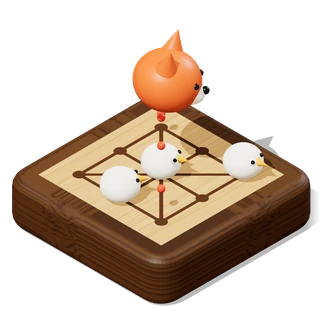
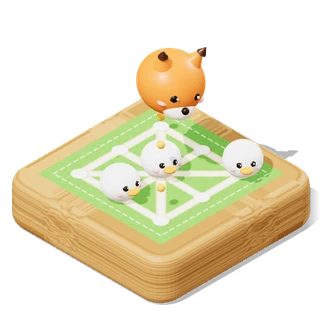
狐とガチョウ：大百科のアイコンを牧場の盤と可愛い駒のモチーフに
Claude-Session: https://claude.ai/code/session_01EiWRAZQof2qofnKntpRWhP

diff --git a/atlas/icons3d.js b/atlas/icons3d.js
@@ -468,29 +468,38 @@
       g.add(at(cnt(dark, 1.4), p(2) - .45, 2.05, p(1) - .35, .3, 0, -.3));   // coming down on the empty square right of the white one
       return g;
     },
-    foxgeese() {   // the middle of the oak cross board (the 3D default): lines and diagonals through nine points; a big fox leaping over a goose, two more geese waiting
-      const top = M({ map: X.canvasTex('icfg1', 512, 512, (c, W) => {
-        c.fillStyle = '#c2925a'; c.fillRect(0, 0, W, W);
-        let sd = 7; const r = () => (sd = (sd * 16807) % 2147483647) / 2147483647;
-        for (let k = 0; k < 90; k++) { c.strokeStyle = `rgba(${r() < .5 ? '120,78,38' : '226,190,140'},${.1 + r() * .16})`; c.lineWidth = 1 + r() * 3; const y = r() * W; c.beginPath(); c.moveTo(0, y); c.bezierCurveTo(W * .3, y + (r() - .5) * 26, W * .7, y + (r() - .5) * 26, W, y + (r() - .5) * 14); c.stroke(); }   // grain
-        const a = W / 6, b = W / 2, d = W - a; c.strokeStyle = '#4a2c12'; c.lineWidth = 12; c.lineCap = 'round';
-        for (const v of [a, b, d]) { c.beginPath(); c.moveTo(v, a); c.lineTo(v, d); c.stroke(); c.beginPath(); c.moveTo(a, v); c.lineTo(d, v); c.stroke(); }
-        c.beginPath(); c.moveTo(a, a); c.lineTo(d, d); c.moveTo(d, a); c.lineTo(a, d); c.stroke();
-        c.fillStyle = '#4a2c12'; for (const x of [a, b, d]) for (const y of [a, b, d]) { c.beginPath(); c.arc(x, y, 20, 0, 7); c.fill(); }
-      }), roughness: .55 });
-      const g = boardChunk(3, 3.6, top, M({ map: X.wood('icfgw', '#5a3a1c', '#3a2410') }));
+    foxgeese() {   // (2026-11-19: the meadow board and the cute pieces, the 2D / 3D defaults) the middle of the cross: a sunny grass board with cream paths and white stones, a round fox leaping over a round goose, two more geese waiting
+      const top = M({ map: X.canvasTex('icfg2', 512, 512, (c, W) => {
+        c.fillStyle = '#5fae3a'; c.fillRect(0, 0, W, W);
+        let sd = 11; const r = () => (sd = (sd * 16807) % 2147483647) / 2147483647;
+        for (let k = 0; k < 900; k++) { c.fillStyle = r() < .5 ? 'rgba(56,120,32,.4)' : 'rgba(170,220,110,.4)'; c.fillRect(r() * W, r() * W, 2, 5 + r() * 4); }
+        const a = W / 6, b = W / 2, d = W - a; c.lineCap = 'round';
+        const path = (x0, y0, x1, y1) => { for (const [w, col] of [[30, '#e9cf9a'], [20, '#fbf0d6']]) { c.strokeStyle = col; c.lineWidth = w; c.beginPath(); c.moveTo(x0, y0); c.lineTo(x1, y1); c.stroke(); } };
+        for (const v of [a, b, d]) { path(v, a, v, d); path(a, v, d, v); }
+        path(a, a, d, d); path(d, a, a, d);
+        c.setLineDash([16, 12]); c.strokeStyle = 'rgba(255,255,255,.75)'; c.lineWidth = 4; c.strokeRect(a * .38, a * .38, W - a * .76, W - a * .76); c.setLineDash([]);
+        for (const x of [a, b, d]) for (const y of [a, b, d]) { c.fillStyle = 'rgba(120,90,40,.25)'; c.beginPath(); c.arc(x + 2, y + 4, 26, 0, 7); c.fill(); c.fillStyle = '#ffffff'; c.beginPath(); c.arc(x, y, 24, 0, 7); c.fill(); }
+      }), roughness: .75 });
+      const g = boardChunk(3, 3.6, top, M({ map: X.wood('icfgw2', '#d6a466', '#9c6a32') }));
       const S = 3.1 / 3, p = i => -1.55 + S * (i + .5);
-      const goose = sc => { const o = new T.Group(), m = C(0xf6f1e4, { roughness: .5 }), body = ball(.46, m, .86); body.position.y = .38; o.add(body);
-        const bill = mesh(new T.ConeGeometry(.12, .3, 16), C(0xf09a24, { roughness: .4 })); bill.rotation.x = Math.PI / 2; bill.position.set(0, .5, .5); o.add(bill);
-        for (const sx of [-1, 1]) { const e = ball(.045, C(0x14110e, { roughness: .3 })); e.position.set(sx * .17, .58, .37); o.add(e); }
+      const ink = C(0x2a1a12, { roughness: .3 }), cheek = C(0xf7a8b0, { roughness: .6 });
+      const face = (o, y, z, w) => {   // two shiny eyes and pink cheeks on a round head
+        for (const sx of [-1, 1]) { const e = ball(.07, ink); e.position.set(sx * w, y, z); o.add(e); const hl = ball(.022, C(0xffffff, { roughness: .2 })); hl.position.set(sx * w + .02, y + .03, z + .06); o.add(hl);
+          const ck = ball(.08, cheek, .45); ck.position.set(sx * (w + .13), y - .12, z - .05); o.add(ck); } };
+      const goose = sc => { const o = new T.Group(), m = C(0xffffff, { roughness: .35 }), body = ball(.46, m, .92); body.position.y = .42; o.add(body);
+        face(o, .52, .38, .15);
+        const bill = ball(.13, C(0xf5a02a, { roughness: .35 }), .55); bill.position.set(0, .42, .47); bill.scale.set(1.2, .55, 1); o.add(bill);
         o.scale.setScalar(sc); return o; };
-      const fox = sc => { const o = new T.Group(), m = C(0xd9602c, { roughness: .45 }), body = ball(.5, m, .9); body.position.y = .42; o.add(body);
-        for (const sx of [-1, 1]) { const e = mesh(new T.ConeGeometry(.17, .36, 18), m); e.position.set(sx * .28, .92, -.04); e.rotation.z = -sx * .25; o.add(e); const e2 = ball(.05, C(0x14110e, { roughness: .3 })); e2.position.set(sx * .19, .56, .42); o.add(e2); }
-        const muz = ball(.22, C(0xfbf3e6, { roughness: .5 }), .8); muz.position.set(0, .34, .36); o.add(muz); const nose = ball(.06, C(0x14110e, { roughness: .3 })); nose.position.set(0, .42, .56); o.add(nose);
+      const fox = sc => { const o = new T.Group(), m = C(0xee7f2e, { roughness: .4 }), body = ball(.5, m, .9); body.position.y = .45; o.add(body);
+        for (const sx of [-1, 1]) { const e = mesh(new T.ConeGeometry(.17, .34, 18), m); e.position.set(sx * .27, .92, -.02); e.rotation.z = -sx * .28; o.add(e);
+          const tip = mesh(new T.ConeGeometry(.075, .13, 14), C(0x4a2a18, { roughness: .5 })); tip.position.set(sx * .335, 1.05, -.02); tip.rotation.z = -sx * .28; o.add(tip); }
+        const muz = ball(.26, C(0xfff6ea, { roughness: .45 }), .72); muz.position.set(0, .32, .32); o.add(muz);
+        face(o, .56, .4, .17);
+        const nose = ball(.055, ink); nose.position.set(0, .42, .55); o.add(nose);
         o.scale.setScalar(sc); return o; };
-      g.add(at(goose(.8), p(1), .5, p(1), 0, .5)); g.add(at(goose(.8), p(0), .5, p(1), 0, .9)); g.add(at(goose(.8), p(2), .5, p(2), 0, .2));
-      g.add(at(fox(1.25), p(1) + .05, 2.0, p(1) - .05, .25, .6, -.2));   // over the goose in the middle, towards the empty point
-      const dotM = gloss(0xe0452c);
+      g.add(at(goose(.8), p(1), .5, p(1), 0, -.35)); g.add(at(goose(.8), p(0), .5, p(1), 0, -.1)); g.add(at(goose(.8), p(2), .5, p(2), 0, -.6));   // (the faces toward the camera)
+      g.add(at(fox(1.25), p(1) + .05, 2.0, p(1) - .05, .3, -.35, -.12));   // over the goose in the middle, towards the empty point, looking at us
+      const dotM = gloss(0xffb43a);
       for (let i = 0; i < 5; i++) { const t = (i + .5) / 5, d = ball(.075, dotM); d.position.set(p(2) + (p(0) - p(2)) * t, .7 + Math.sin(t * Math.PI) * 1.05, p(0) + (p(2) - p(0)) * t); g.add(d); }
       return g;
     },

diff --git a/foxgeese/index.html b/foxgeese/index.html
@@ -1404,7 +1404,7 @@ html[data-bd=meadow] .reserve .rsv-plate.rsv-q.lo b, html[data-bd=bauhaus] .rese
   const f = document.createElement('link'); f.rel = 'stylesheet'; f.href = 'https://fonts.googleapis.com/css2?family=RocknRoll+One&family=Zen+Maru+Gothic:wght@500;700;900&family=Fredoka:wght@600;700&display=swap'; document.head.appendChild(f);
   const load = src => new Promise((res, rej) => { const s = document.createElement('script'); s.src = src; s.onload = res; s.onerror = rej; document.body.appendChild(s); });
   if (window.AtlasLoading) { AtlasLoading.show(); setTimeout(() => AtlasLoading.hide(), 12000); }   // safety net
-  (/[?&]three=128\b/.test(location.search) ? load('https://cdnjs.cloudflare.com/ajax/libs/three.js/r128/three.min.js') : load('../atlas/vendor/three-r186.min.js?v=1').then(() => load('../atlas/vendor/three-compat.js?v=15'))).then(() => load('../atlas/img/tex/baked.js?v=3')).then(() => load('../atlas/table3d.js?v=184')).then(() => load('../atlas/tables3d.js?v=162')).then(() => load('../atlas/skin/common.js?v=114')).then(() => load('../atlas/models/foxgeese.js?v=6')).then(() => load('../atlas/skin/foxgeese.js?v=10'))
+  (/[?&]three=128\b/.test(location.search) ? load('https://cdnjs.cloudflare.com/ajax/libs/three.js/r128/three.min.js') : load('../atlas/vendor/three-r186.min.js?v=1').then(() => load('../atlas/vendor/three-compat.js?v=15'))).then(() => load('../atlas/img/tex/baked.js?v=3')).then(() => load('../atlas/table3d.js?v=184')).then(() => load('../atlas/tables3d.js?v=162')).then(() => load('../atlas/skin/common.js?v=114')).then(() => load('../atlas/models/foxgeese.js?v=6')).then(() => load('../atlas/skin/foxgeese.js?v=11'))
     .catch(() => { document.documentElement.classList.remove('atlas-skin'); if (window.AtlasLoading) AtlasLoading.hide(); });
 })();
 </script>

diff --git a/atlas/app.js b/atlas/app.js
@@ -200,7 +200,7 @@
 
   /* ---------- common renderers ---------- */
   const R3 = new Set(['peg', 'reversi', 'shogi', 'chess', 'gomoku', 'dots', 'connect4', 'mancala', 'backgammon', 'morris', 'sudoku', 'speedsudoku', 'checkers', 'samegame', 'go', 'hex', 'tafl', 'xiangqi', 'jailbreak', 'solitaire', 'poker', 'baccarat', 'blackjack', 'fanorona', 'alquerque', 'ur', 'ugolki', 'agon', 'konane', 'senet', 'janggi', 'ludo', 'carrom', 'crokinole', 'hockey', 'botao', 'hitblow', 'amazons', 'shanghai', 'latrunculi', 'foxgeese', 'patolli']);   // images/atlas/<id>.webp exists
-  const artSrc = g => R3.has(g.id) ? `../images/atlas/${g.id}.webp?v=${g.id === 'hitblow' ? 13 : g.id === 'latrunculi' || g.id === 'foxgeese' || g.id === 'patolli' ? 12 : g.id === 'fanorona' || g.id === 'janggi' || g.id === 'morris' || g.id === 'peg' || g.id === 'shanghai' ? 11 : 10}` : `../${g.icon}`;
+  const artSrc = g => R3.has(g.id) ? `../images/atlas/${g.id}.webp?v=${g.id === 'hitblow' ? 13 : g.id === 'foxgeese' ? 13 : g.id === 'latrunculi' || g.id === 'patolli' ? 12 : g.id === 'fanorona' || g.id === 'janggi' || g.id === 'morris' || g.id === 'peg' || g.id === 'shanghai' ? 11 : 10}` : `../${g.icon}`;
   const artImg = (g, extra = '') => `<img src="${artSrc(g)}" alt="" loading="lazy" decoding="async"${R3.has(g.id) ? '' : ' class="flat"'}${extra}>`;
   const g3 = g => `<span class="g3" style="--c:${g.color}">${artImg(g)}</span>`;
   const gno = g => 'No.' + String(A_.GAMES.indexOf(g) + 1).padStart(2, '0');

diff --git a/atlas/skin/foxgeese.js b/atlas/skin/foxgeese.js
@@ -62,7 +62,7 @@ html.atlas-skin.atlas-fox:not(.atlas-2d):not(.atlas-hex):not(.atlas-backgammon) 
     board: boardDom,
     pc: { vars: ['--cell'], extras: '.frame > .reserve' },
     outer: r => { const H = r.height * K3.H() / 7; return { top: r.top + r.height / 2 - H / 2, height: H }; },   // slab edge to slab edge
-    guide: '../images/atlas/foxgeese.webp', guideFallback: '../images/atlas/foxgeese.webp',
+    guide: '../images/atlas/foxgeese.webp?v=13', guideFallback: '../images/atlas/foxgeese.webp?v=13',
     bubbles: [['lsPrompt', 'lsFb'], ['pzGoal', 'pzStatus']],
     skip: 'lines|\\.pc|\\.rv|reserve|rsv|sqfx|\\.dest|\\.mark|\\.hov|fxsvg|hintlbl|frame|prompt|orn',
     start(lv, side, mode) {

diff --git a/atlas/index.html b/atlas/index.html
@@ -2372,7 +2372,7 @@ window.AtlasRgdTimer = function (btn, ms, alive) {
 <script src="worldmap.js?v=40"></script>
 <script src="npc/npc.js?v=44"></script>
 <script src="avtalk.js?v=4"></script>
-<script src="app.js?v=455"></script>
+<script src="app.js?v=456"></script>
 <script src="../shared/praline-badge.js?v=8" data-portal defer></script>
 </body>
 </html>

diff --git a/claude/foxgeese-spec.md b/claude/foxgeese-spec.md
@@ -167,3 +167,4 @@ URL: https://core-calmdust.github.io/aicoding/foxgeese/ （cat: hist＝ヒスト
 
 ## 正式リリース（2026-11-19）
 - ALPHA 表記を外した（index.html の alpha:true、shared/atlas.js の alpha: true）。
+- 大百科のゲームアイコン（images/atlas/foxgeese.webp、atlas/icons3d.js ICONS.foxgeese）を、ひだまり牧場の盤ときつね＆がちょうの駒の可愛いモチーフに描き直し（2026-11-19）。芝の盤にクリーム色の小道と白い点、まるい狐がガチョウを跳び越える。
